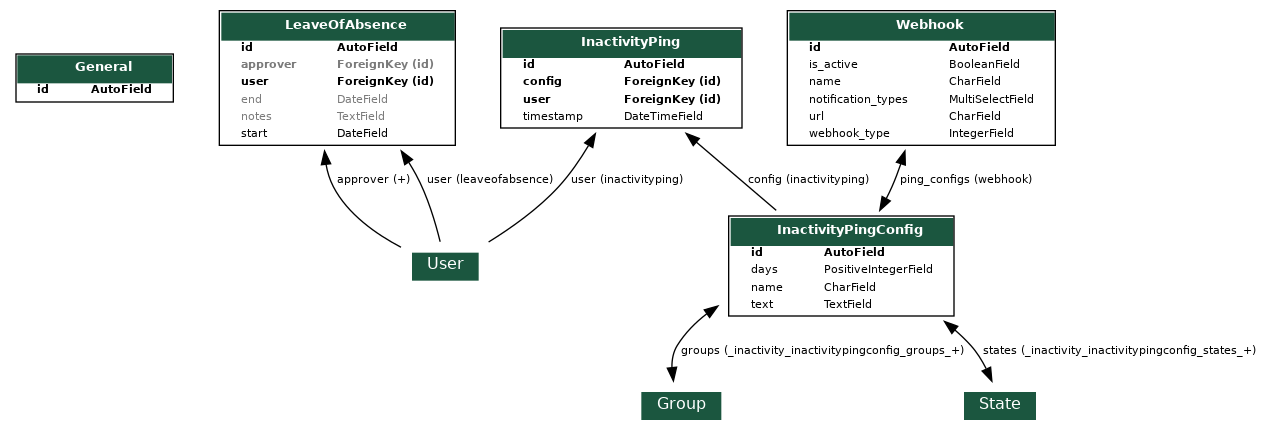
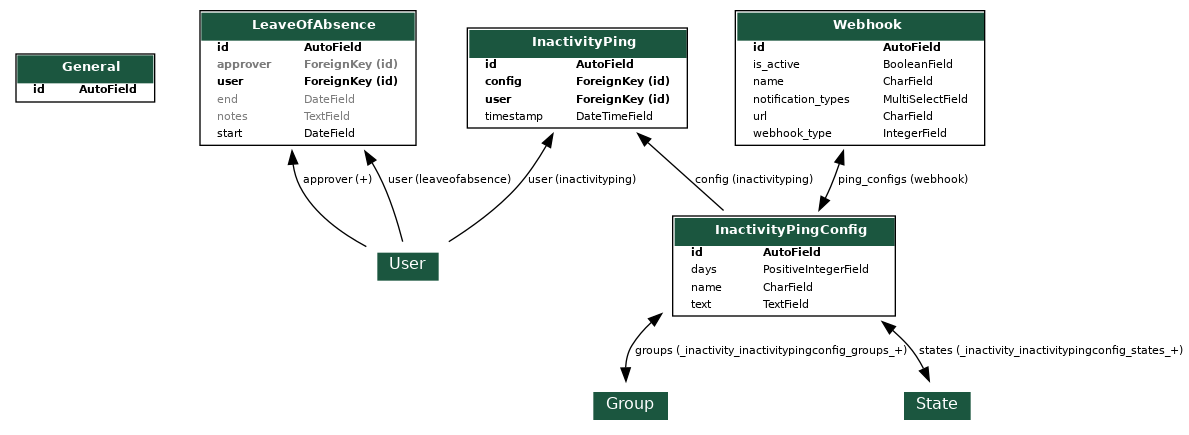
Fix wrong date locale & update CI to work with new tox

diff --git a/inactivity/templates/inactivity/create_loa.html b/inactivity/templates/inactivity/create_loa.html
@@ -41,8 +41,11 @@
 
   <script>
   $( function() {
-    $( "#id_start" ).datepicker();
-    $( "#id_end" ).datepicker();
+    let params = {
+        dateFormat: "yy-mm-dd"
+    };
+    $( "#id_start" ).datepicker(params);
+    $( "#id_end" ).datepicker(params);
   } );
   </script>
 {% endblock %}

diff --git a/inactivity/views.py b/inactivity/views.py
@@ -16,7 +16,6 @@ from .models import LeaveOfAbsence
 @login_required
 @permission_required("inactivity.basic_access")
 def index(request):
-
     context = {}
     return render(request, "inactivity/index.html", context)
 
@@ -24,7 +23,6 @@ def index(request):
 @login_required
 @permission_required("inactivity.manage_leave")
 def manage(request):
-
     context = {}
     return render(request, "inactivity/manage.html", context)
 

diff --git a/inactivity/models.py b/inactivity/models.py
@@ -116,7 +116,6 @@ class LeaveOfAbsence(models.Model):
             Q(ping_configs__in=configs) | Q(ping_configs=None), Q(is_active=True)
         )
         if self._state.adding:
-
             for webhook in webhooks:
                 if str(Webhook.NOTIFICATION_TYPE_LOA_NEW) in webhook.notification_types:
                     if webhook.webhook_type == Webhook.WEBHOOK_TYPE_DISCORD:

diff --git a/inactivity/migrations/0003_add_webhooks.py b/inactivity/migrations/0003_add_webhooks.py
@@ -6,7 +6,6 @@ from django.db import migrations, models
 
 
 class Migration(migrations.Migration):
-
     dependencies = [
         ("auth", "0012_alter_user_first_name_max_length"),
         ("authentication", "0017_remove_fleetup_permission"),

diff --git a/inactivity/migrations/0004_django4_update.py b/inactivity/migrations/0004_django4_update.py
@@ -4,7 +4,6 @@ from django.db import migrations, models
 
 
 class Migration(migrations.Migration):
-
     dependencies = [
         ("auth", "0012_alter_user_first_name_max_length"),
         ("authentication", "0017_remove_fleetup_permission"),

diff --git a/inactivity/migrations/0002_add_manage_leave_perm.py b/inactivity/migrations/0002_add_manage_leave_perm.py
@@ -4,7 +4,6 @@ from django.db import migrations
 
 
 class Migration(migrations.Migration):
-
     dependencies = [
         ("inactivity", "0001_initial"),
     ]

diff --git a/inactivity/__init__.py b/inactivity/__init__.py
@@ -1,5 +1,5 @@
 default_app_config = "inactivity.apps.InactivityConfig"
 
-__version__ = "0.1.0a6"
+__version__ = "0.1.0a7"
 
 __title__ = "Inactivity"

diff --git a/inactivity/migrations/0001_initial.py b/inactivity/migrations/0001_initial.py
@@ -6,7 +6,6 @@ from django.db import migrations, models
 
 
 class Migration(migrations.Migration):
-
     initial = True
 
     dependencies = [

diff --git a/CHANGELOG.md b/CHANGELOG.md
@@ -7,6 +7,12 @@ and this project adheres to [Semantic Versioning](http://semver.org/).
 
 ## [Unreleased] - yyyy-mm-dd
 
+## [0.1.0a7] - 2023-05-21
+
+### Fixed
+
+- Can only create new requests when running in English locale
+
 ## [0.1.0a6] - 2022-08-06
 
 ### Changed
